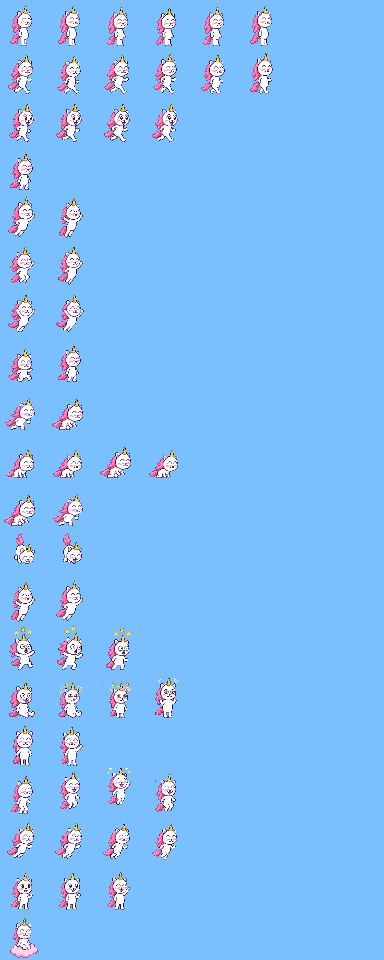
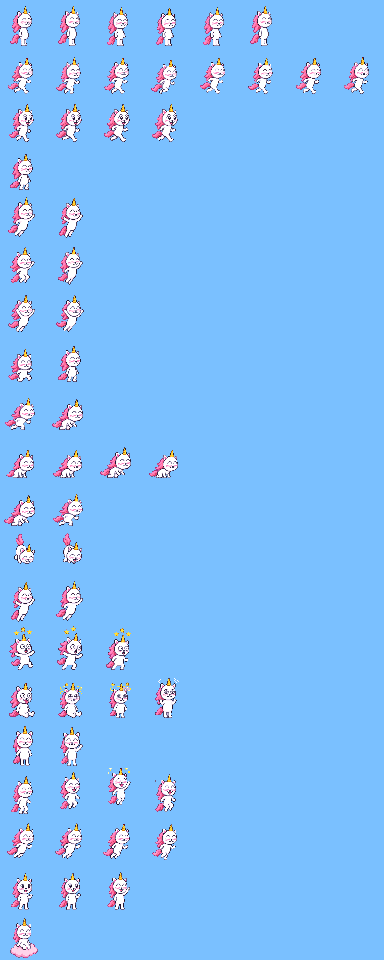
UNI-SALTA: smoother run cycle, arc rainbow trail, pixel shadow, squash and stretch, slower heart recovery
Claude-Session: https://claude.ai/code/session_01HXdwS7TiDVgBF8kwQXQPCD

diff --git a/uni-salta/src/view/Game.js b/uni-salta/src/view/Game.js
@@ -56,7 +56,8 @@ export class Game extends Phaser.Scene {
     this.player.play('unicorn_run');
     this.rescueCloud = this.add.sprite(0, 0, 'rescue_bob').setDepth(29).setVisible(false);
     this.rescueCloud.play('rescue_bob');
-    this.shadow = this.add.rectangle(0, 0, 36, 4, 0x1E1330, 0.25).setDepth(11);
+    this.shadow = this.add.image(0, 0, 'px_shadow').setDepth(11).setAlpha(0.4);
+    this.sq = { x: 1, y: 1, lean: 0, bob: 0, lastFoot: -1, airT: 0 };
 
     // overlays
     this.slowTint = this.add.rectangle(W / 2, H / 2, W, H, 0x6FE09A, 0).setDepth(70);
@@ -156,10 +157,8 @@ export class Game extends Phaser.Scene {
 
   afterStep() {
     const sim = this.sim;
-    if (this.tickCount % 2 === 0) {
-      this.trail.push({ x: sim.x, h: sim.p.y, c: sim.p.crouch });
-      if (this.trail.length > 34) this.trail.shift();
-    }
+    this.trail.push({ x: sim.x, h: sim.p.y, c: sim.p.crouch });
+    if (this.trail.length > 46) this.trail.shift();
     for (const e of sim.drainEvents()) this.onEvent(e);
     if (sim.hitstop > 0 && !this._hs) { this._hs = true; this.anims.pauseAll(); }
     if (sim.hitstop <= 0 && this._hs) { this._hs = false; if (!this.paused) this.anims.resumeAll(); }
@@ -501,7 +500,7 @@ export class Game extends Phaser.Scene {
     const s = this.sim, p = s.p, spr = this.player;
     const sy = this.groundY - lerp(p.prevY, p.y, alpha);
     spr.setPosition(CFG.PLAYER_X, Math.round(sy + (this.introDrop || 0)));
-    this.shadow.setPosition(CFG.PLAYER_X, this.groundY + 1).setVisible(p.onGround || p.y < 200);
+    this.updateShadow(p, s);
     if (this.hitT > 0) this.hitT -= dt;
     if (this.stompT > 0) this.stompT -= dt;
     if (this.landT > 0) this.landT -= dt;
@@ -525,6 +524,7 @@ export class Game extends Phaser.Scene {
       spr.setOrigin(m.pivot[0] / m.cell[0], m.pivot[1] / m.cell[1]);
     }
     spr.anims.timeScale = key.includes('run') ? Math.max(0.75, s.speed / 250) * (s.power && s.power.kind === 'slow' ? 0.9 : 1) : 1;
+    this.squashStretch(spr, p, s, dt, key);
     // blink while invulnerable
     if (p.invul > 0 && !s.rescue && s.dying <= 0) spr.setAlpha(this.app.save.settings.reduceFlash ? 0.7 : (Math.floor(this.blinkT * 20) % 2 ? 0.35 : 1)); else spr.setAlpha(1);
     // power looks
@@ -561,25 +561,95 @@ export class Game extends Phaser.Scene {
     g.clear();
     if (this.introT < 0.9 || s.dying > 0 || s.over) return;
     const full = s.power && (s.power.kind === 'fast' || s.power.kind === 'inv');
-    const n = this.trail.length;
-    if (n < 2) return;
-    const bands = full ? 6 : 3;
-    const th = full ? 3 : 2;
-    const pts = this.trail;
-    for (let i = 0; i < n - 1; i++) {
-      const a = pts[i], b = pts[i + 1];
-      const ax = Math.round(a.x - camX), bx = Math.round(b.x - camX);
-      const ay = this.groundY - a.h - (a.c ? 22 : 36), by = this.groundY - b.h - (b.c ? 22 : 36);
-      const fade = (i + 1) / n;
-      if (fade < 0.12) continue;
-      const wob = Math.round(Math.sin(i * 0.5 + this.t * 9) * (full ? 2 : 1));
-      for (let k = 0; k < bands; k++) {
-        const col = full ? RAINBOW_HEX[k] : RAINBOW_HEX[[0, 2, 4][k]];
-        g.fillStyle(col, Math.min(1, fade * 1.3));
-        const y = Math.round(lerp(ay, by, 0.5)) + k * th - Math.floor(bands * th / 2) + wob;
-        g.fillRect(ax, y, Math.max(2, bx - ax + 2), th);
-      }
+    const tr = this.trail, n = tr.length;
+    if (n < 3) return;
+    // screen-space polyline of the path, then resampled by arc length with bands offset along the normal
+    // so a jump draws a smooth ribbon that follows the arc instead of flat horizontal bars
+    const useN = Math.min(n, full ? 46 : 36);
+    const pts = [];
+    for (let i = n - useN; i < n; i++) {
+      const q = tr[i];
+      pts.push([Math.round(q.x - camX), this.groundY - q.h - (q.c ? 22 : 36)]);
     }
+    const bands = full ? 6 : 4, th = 3;
+    const colors = full ? RAINBOW_HEX : [RAINBOW_HEX[0], RAINBOW_HEX[2], RAINBOW_HEX[4], RAINBOW_HEX[5]];
+    const total = pts.length;
+    let acc = 0, segLen = [];
+    for (let i = 1; i < total; i++) { const l = Math.hypot(pts[i][0] - pts[i - 1][0], pts[i][1] - pts[i - 1][1]); segLen.push(l); acc += l; }
+    if (acc < 2) return;
+    const step = 2;
+    let run = 0, sample = 0;
+    for (let i = 1; i < total; i++) {
+      const [x0, y0] = pts[i - 1], [x1, y1] = pts[i];
+      const l = segLen[i - 1];
+      if (l <= 0) continue;
+      // tangent smoothed over neighbours
+      const pa = pts[Math.max(0, i - 3)], pb = pts[Math.min(total - 1, i + 1)];
+      let tx = pb[0] - pa[0], ty = pb[1] - pa[1];
+      const tl = Math.hypot(tx, ty) || 1; tx /= tl; ty /= tl;
+      const nx = -ty, ny = tx;
+      while (sample < run + l) {
+        const u = (sample - run) / l;
+        const px = x0 + (x1 - x0) * u, py = y0 + (y1 - y0) * u;
+        const life = sample / acc;
+        if (life > 0.04) {
+          const taper = Math.min(1, 0.4 + life * 0.8);
+          const wob = Math.sin(sample * 0.07 + this.t * 10) * (full ? 2.4 : 1.4) * (1 - life * 0.3);
+          const tb = Math.max(2, Math.round(bands * taper));
+          g.fillStyle(0xFFFFFF, 0);
+          for (let k = 0; k < tb; k++) {
+            const col = colors[Math.min(colors.length - 1, Math.floor(k * colors.length / tb))];
+            const off = (k - (tb - 1) / 2) * th + wob;
+            g.fillStyle(col, Math.min(1, life * 1.7));
+            g.fillRect(Math.round(px + nx * off - 1), Math.round(py + ny * off - 1), th, th);
+          }
+          if (full && (Math.floor(sample / 2) % 11) === 0 && life > 0.3) { g.fillStyle(0xFFFFFF, life); g.fillRect(Math.round(px + nx * (bands * th * 0.7)), Math.round(py + ny * (bands * th * 0.7)), 2, 2); }
+        }
+        sample += step;
+      }
+      run += l;
+    }
+  }
+
+  updateShadow(p, s) {
+    // shadow stays on the floor under the player and shrinks and fades with height, hidden over gaps
+    let under = false;
+    for (const f of s.floor) if (s.x >= f.x0 && s.x <= f.x1) { under = true; break; }
+    const h = Math.max(0, p.y);
+    const k = Math.max(0.35, 1 - h / 330);
+    const w = p.crouch ? 0.85 : 1;
+    this.shadow.setVisible(under && !s.rescue && s.dying <= 0).setPosition(CFG.PLAYER_X - 2, this.groundY + 1).setScale(k * w * 0.95, k).setAlpha(0.3 + 0.3 * k);
+  }
+
+  // squash and stretch, forward lean and a run bob layered over the sprite frames
+  squashStretch(spr, p, s, dt, key) {
+    const q = this.sq;
+    let tx = 1, ty = 1, tl = 0;
+    if (!p.onGround) {
+      const v = Math.max(-1, Math.min(1, p.vy / 700));
+      ty = 1 + 0.12 * Math.abs(v); tx = 1 - 0.07 * Math.abs(v);
+      tl = -v * 0.12;
+      q.airT += dt;
+    } else if (this.landT > 0) { ty = 0.86; tx = 1.12; q.airT = 0; }
+    else if (p.crouch) { ty = 0.94; tx = 1.05; tl = 0.05; q.airT = 0; }
+    else if (key.includes('run')) {
+      const ph = ((spr.anims.currentFrame ? spr.anims.currentFrame.index : 0) % 2);
+      ty = 1 + (ph ? 0.025 : -0.02); tl = 0.05; q.airT = 0;
+    }
+    if (this.stompT > 0) { ty = 1.12; tx = 0.92; }
+    if (this.hitT > 0) { tx = 1.1; ty = 0.9; }
+    const kk = 1 - Math.pow(0.0005, dt);
+    q.x += (tx - q.x) * kk; q.y += (ty - q.y) * kk; q.lean += (tl - q.lean) * kk;
+    spr.setScale(q.x, q.y);
+    spr.setRotation(s.dying > 0 || s.over || s.rescue ? 0 : q.lean);
+    // footfall dust on the run cycle
+    if (p.onGround && key.includes('run') && s.dying <= 0) {
+      const fi = spr.anims.currentFrame ? spr.anims.currentFrame.index : 0;
+      if (fi !== q.lastFoot) {
+        q.lastFoot = fi;
+        if (fi === 1 || fi === 5) this.fx.dust(s.x - 12, 0, 1, -1);
+      }
+    } else q.lastFoot = -1;
   }
 
   ambient(dt, camX) {

diff --git a/uni-salta/src/view/Preload.js b/uni-salta/src/view/Preload.js
@@ -1,4 +1,4 @@
-import { makeParticles, makeGate, makeBolt, makeSky, makeGlow, makeStreaks } from './gfx.js';
+import { makeShadow, makeParticles, makeGate, makeBolt, makeSky, makeGlow, makeStreaks } from './gfx.js';
 import { WORLDS } from '../data/worlds.js';
 
 export class Preload extends Phaser.Scene {
@@ -36,6 +36,7 @@ export class Preload extends Phaser.Scene {
       this.anims.create({ key, frames: this.anims.generateFrameNumbers(key, { start: 0, end: m.frames - 1 }), frameRate: m.fps, repeat: m.loop ? -1 : 0 });
     }
     makeParticles(this);
+    makeShadow(this, 'px_shadow');
     makeSky(this, 'sky_title', ['#7A3FE0', '#9358E8', '#A878F0', '#C79BF5']);
     makeStreaks(this, 'streaks_title', '#D8BDFB', 21);
     makeGate(this, 'gate');

diff --git a/uni-salta/src/view/gfx.js b/uni-salta/src/view/gfx.js
@@ -128,3 +128,17 @@ export function makeBolt(scene, key) {
   });
   t.refresh();
 }
+
+// soft pixel ground shadow: dithered ellipse, dense in the core and thinning to the rim
+export function makeShadow(scene, key, w = 56, h = 14) {
+  const { t, ctx } = canvasTex(scene, key, w, h);
+  putImage(ctx, w, h, (x, y) => {
+    const dx = (x + 0.5 - w / 2) / (w / 2), dy = (y + 0.5 - h / 2) / (h / 2);
+    const d = Math.sqrt(dx * dx + dy * dy);
+    if (d > 1) return null;
+    const a = 1 - d * d * 0.85;
+    const th = (BAYER[y & 3][x & 3] + 0.5) / 16;
+    return a > th ? [30, 19, 48, 255] : null;
+  });
+  t.refresh();
+}

diff --git a/uni-salta/src/core/sim.js b/uni-salta/src/core/sim.js
@@ -205,8 +205,8 @@ export class Sim {
   }
 
   choosePower() {
-    if (this.lives < CFG.LIVES && this.mode === 'normal' && this.gen.heartCd <= 0 && this.rng.chance(0.45)) {
-      this.gen.heartCd = 3;
+    if (this.lives < CFG.LIVES && this.mode === 'normal' && this.gen.heartCd <= 0 && this.rng.chance(0.3)) {
+      this.gen.heartCd = 9;
       return 'heart';
     }
     this.gen.heartCd = Math.max(0, this.gen.heartCd - 1);

diff --git a/uni-salta/src/core/config.js b/uni-salta/src/core/config.js
@@ -48,7 +48,7 @@ export const CFG = {
   // scoring
   PTS_COIN: 10, PTS_POWER: 50, PTS_HEART: 100, PTS_PERFECT: 100, PTS_STOMP: [100, 200, 400, 800, 1000],
   PTS_POP: 200, PTS_BLOCK: 50, PTS_WORLD: 1000, PTS_STREAK: 300,
-  HEART_EVERY_COINS: 100,
+  HEART_EVERY_COINS: 240,
 
   // sprites (logical px)
   SPRITE: { unicorn: [96, 96] },

diff --git a/uni-salta/tools/build_unicorn.py b/uni-salta/tools/build_unicorn.py
@@ -10,12 +10,12 @@ CW = CH = 96
 GX, GROUND = 48, 92
 T = 7.50
 PAL = P.master_palette(['outline', 'white', 'mane', 'blush', 'nose', 'gold', 'gray', 'tongue', 'red', 'cloud'])
-SRC = {'run': 'unicorn_run_test', 'jump': 'unicorn_jump', 'crouch': 'unicorn_crouch', 'fast': 'unicorn_fast',
+SRC = {'run': 'unicorn_run_v2', 'jump': 'unicorn_jump', 'crouch': 'unicorn_crouch', 'fast': 'unicorn_fast',
        'hit': 'unicorn_hit', 'idle': 'unicorn_idle', 'fly': 'unicorn_fly'}
 # anim: (sheet, [frame idx], fps, loop, mode, optional dy list)
 ANIMS = {
     'idle':            ('idle',   [0, 1, 2, 3, 2, 1], 6, True, 'ground'),
-    'run':             ('run',    [2, 3, 4, 5, 6, 7], 12, True, 'ground'),
+    'run':             ('run',    [0, 1, 2, 3, 4, 5, 6, 7], 16, True, 'ground'),
     'run_fast':        ('fast',   [0, 1, 2, 3], 14, True, 'ground'),
     'jump_takeoff':    ('jump',   [0], 10, False, 'ground'),
     'jump_rise':       ('jump',   [1, 2], 10, True, 'center'),

diff --git a/uni-salta/docs/CREDITS.md b/uni-salta/docs/CREDITS.md
@@ -35,3 +35,8 @@
 | 2026-10-03 03:42 | xai/grok-imagine-image-2.0 | H7 ground strip w4 | 1.44 | 38bcb5cf-4d68-4cf5-b1c8-1044e54db1c7 |
 | 2026-10-03 03:42 | xai/grok-imagine-image-2.0 | H7 ground strip w5 | 1.44 | 885373dd-c8fa-4a11-ae8a-2858710535e8 |
 | 2026-10-03 03:43 | xai/grok-imagine-image-2.0 | H7 ground strip w6 | 1.44 | fdf5854b-4e24-4a8e-a4b5-a9d9d398825c |
+| 2026-10-03 05:03 | xai/grok-imagine-image-2.0 | H8 power cutscene inv | 1.44 | e8fd67b5-ec59-47b0-b4dd-4827871f7e06 |
+| 2026-10-03 05:03 | xai/grok-imagine-image-2.0 | H8 power cutscene slow | 1.44 | 388d73ee-59b4-4abb-9a2a-97dedb58e3fc |
+| 2026-10-03 05:04 | xai/grok-imagine-image-2.0 | H8 energetic run cycle a | 1.6 | 38308e63-7b79-4b61-8bae-7b1ea7573f9e |
+| 2026-10-03 05:04 | xai/grok-imagine-image-2.0 | H8 power cutscene fast | 1.44 | 43f261c6-0bdc-4f32-bf48-b4bd4da41acb |
+| 2026-10-03 05:05 | xai/grok-imagine-image-2.0 | H8 energetic run cycle b | 1.6 | 79e827d1-9f2c-4cf2-829a-4f93553ae096 |
